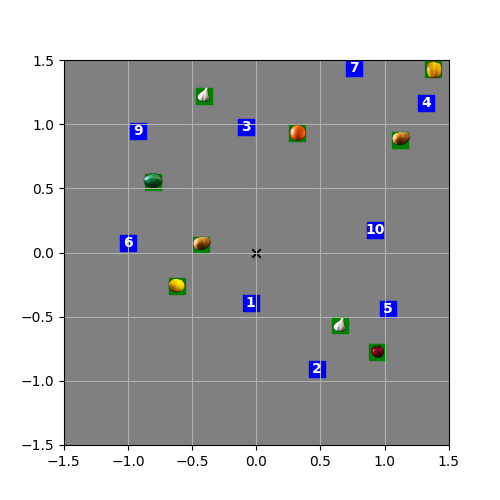
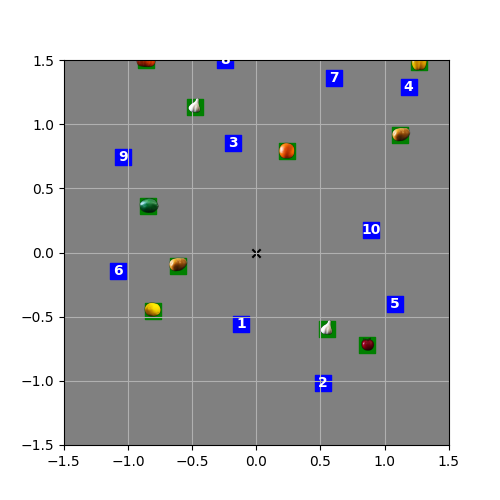
add more redundancy

diff --git a/Week12/TargetPoseEst.py b/Week12/TargetPoseEst.py
@@ -134,15 +134,15 @@ def merge_estimations(target_pose_dict: dict, threshold: float) -> dict:
             kmeans = KMeans(n_clusters=2, random_state=0, n_init="auto").fit(fruits_temp[fruit]["all_points"])      
             centrepoints = kmeans.cluster_centers_
             target_est[f"{fruit.lower()}_1"] = {}
-            target_est[f"{fruit.lower()}_0"]["y"] = centrepoints[0][1]
-            target_est[f"{fruit.lower()}_0"]["x"] = centrepoints[0][0]
-            target_est[f"{fruit.lower()}_1"]["y"] = centrepoints[1][1]
-            target_est[f"{fruit.lower()}_1"]["x"] = centrepoints[1][0]
+            target_est[f"{fruit.lower()}_0"]["y"] = clamp_boundaries(centrepoints[0][1])
+            target_est[f"{fruit.lower()}_0"]["x"] = clamp_boundaries(centrepoints[0][0])
+            target_est[f"{fruit.lower()}_1"]["y"] = clamp_boundaries(centrepoints[1][1])
+            target_est[f"{fruit.lower()}_1"]["x"] = clamp_boundaries(centrepoints[1][0])
         else:
             kmeans = KMeans(n_clusters=1, random_state=0, n_init="auto").fit(fruits_temp[fruit]["all_points"]) 
             centrepoints = kmeans.cluster_centers_
-            target_est[f"{fruit.lower()}_0"]["y"] = centrepoints[0][1]
-            target_est[f"{fruit.lower()}_0"]["x"] = centrepoints[0][0]
+            target_est[f"{fruit.lower()}_0"]["y"] = clamp_boundaries(centrepoints[0][1])
+            target_est[f"{fruit.lower()}_0"]["x"] = clamp_boundaries(centrepoints[0][0])
             
     return target_est
 
@@ -153,10 +153,20 @@ def parse_slam_map(fname : str) -> dict:
         for (i, tag) in enumerate(usr_dict["taglist"]):
             if tag > 0 and tag < 11:
                 aruco_dict[f"aruco{tag}_0"] = {
-                    "x": usr_dict["map"][0][i],
-                    "y": usr_dict["map"][1][i]
+                    "x": clamp_boundaries(usr_dict["map"][0][i]),
+                    "y": clamp_boundaries(usr_dict["map"][1][i])
                 }
     return aruco_dict
+
+def clamp_boundaries(point, limit=1.5):
+    '''
+    To account for erroneous SLAM, clamp the point within the arena boundaries
+    '''
+    if point > limit:
+        point = limit - 0.1
+    elif point < -limit:
+        point = -limit + 0.1
+    return point
 
 # main loop
 if __name__ == "__main__":
@@ -217,11 +227,11 @@ if __name__ == "__main__":
         aruco_dict = parse_slam_map(f'{script_dir}/lab_output/slam.txt')
         os.rename(f'{script_dir}/lab_output/slam.txt', f'{script_dir}/lab_output/slam_run{args.run}_411.txt')
     except FileNotFoundError:
-        print("WARNING: Could not find slam.txt - File will not be renamed and truemap will not be created!!!\nMost likely you either forgot to save slam map or have already ran TargetPoseEst.py")
+        print("WARNING: Could not find slam.txt - TRUEMAP WILL NOT BE CREATED AND SLAM WILL NOT BE RENAMED!!!\nMost likely you either forgot to save slam map or have already ran TargetPoseEst.py")
     else:
         print("Renamed slam file")
 
-    aruco_dict.update(target_est)
-    with open("TrueMap.txt", "w") as outfile: 
-        json.dump(aruco_dict, outfile)
-    print("Created TrueMap.txt")
+        aruco_dict.update(target_est)
+        with open(f"TrueMap{args.run}.txt", "w") as outfile: 
+            json.dump(aruco_dict, outfile)
+        print(f"Created TrueMap{args.run}.txt")

diff --git a/Week12/auto_fruit_search_new_strat.py b/Week12/auto_fruit_search_new_strat.py
@@ -767,11 +767,16 @@ if __name__ == "__main__":
     parser.add_argument("--calib_dir", type=str, default="calibration/param/")
     parser.add_argument("--save_data", action='store_true')
     parser.add_argument("--play_data", action='store_true')
-    parser.add_argument("--map", type=str, default="TrueMap.txt")
     parser.add_argument("--yolo_model", default='YOLO/model/yolov8_model.pt')
-    parser.add_argument("--shopping_list", type=str, default="M4_prac_shopping_list.txt")
+    parser.add_argument("--shopping_list", type=str, default="shopping_list.txt")
     parser.add_argument("--auto", type=int, default=1)
+    parser.add_argument("--run", type=str, default="NOT SUPPLIED")
     args, _ = parser.parse_known_args()
+    
+    if args.run == "NOT SUPPLIED":
+        raise ValueError("YOU HAVE NOT SUPPLIED A RUN NUMBER. Please use --run N\nDONT PANIC THIS IS NOT A CODE ISSUE!!!")
+    
+    true_map = f"TrueMap{args.run}.txt"
     
     pygame.font.init() 
     TITLE_FONT = pygame.font.Font('pics/8-BitMadness.ttf', 35)
@@ -791,7 +796,7 @@ if __name__ == "__main__":
     pygame.display.update()
     # ========================================================================
     # create map_image.png from text file
-    visualise_map(args.map)
+    visualise_map(true_map)
     # params for gui
     background_colour = (45,45,45)
     rect_colour = (128,128,128)
@@ -816,7 +821,7 @@ if __name__ == "__main__":
     start = False
 
     # read in the true map
-    fruits_list, fruits_true_pos, aruco_true_pos = read_true_map(args.map)
+    fruits_list, fruits_true_pos, aruco_true_pos = read_true_map(true_map)
     # print(aruco_true_pos)
 
     search_list = read_search_list(args.shopping_list)
